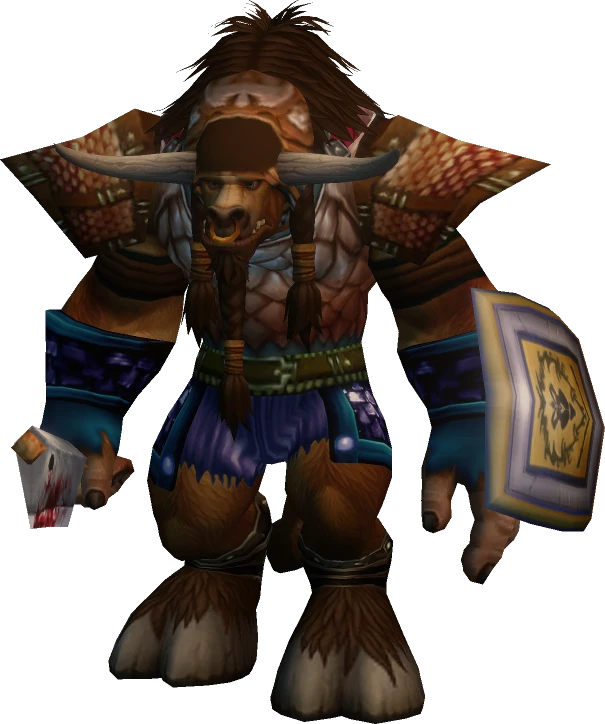
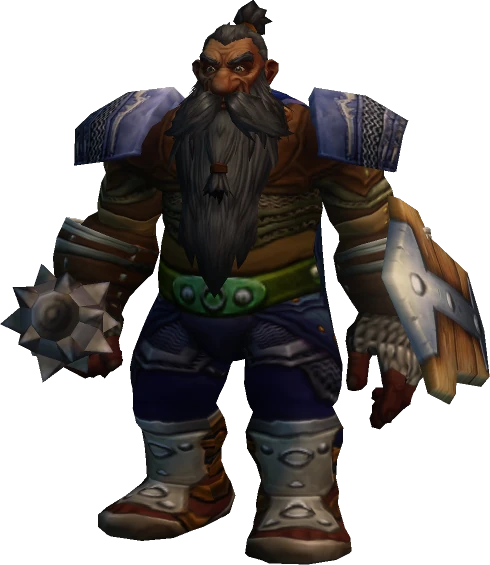
Rehabilitar a Loqe con su modelo de enano actualizado

diff --git a/features/character-art.tsx b/features/character-art.tsx
@@ -22,7 +22,7 @@ export function useCharacterArt(
       ? assetUrl(
           "/guild/personajes/" +
             encodeURIComponent(member.id.slice("forever-eu-".length)) +
-            ".webp",
+            ".webp?v=" + archived.modified,
         )
       : undefined;
   const cutout =

diff --git a/AGENTS.md b/AGENTS.md
@@ -30,3 +30,7 @@ Consulta la armería actual para la armadura y el resto del equipo: las imágene
 ## Alexion Grandwell
 
 Alexion es un elfo de la noche, con pelo blanco y barba blanca corta, como en [su referencia manual](config/illustration-references/alexion-grandwell.webp). El 16 de noviembre la ficha vuelve a indicar correctamente la raza, pero sus imágenes de armería muestran otra vez un no-muerto. Si ocurre, conserva la identidad de elfo de la referencia manual y consulta los objetos de la ficha para actualizar su equipo; no reproduzcas la cara, el cuerpo ni el atuendo del modelo incorrecto.
+
+## Loqe Delabahía
+
+El 16 de noviembre de 2026 el usuario confirmó que la armería de Loqe Delabahía (`forever-eu-loqe-delabahía`) ya muestra correctamente su personaje, y se comprobó su modelo de enano. Ya no está excluido por el antiguo modelo de tauren. Usa su armería actual para las próximas ilustraciones, con las mismas reglas de actividad y equipo que el resto de integrantes.
